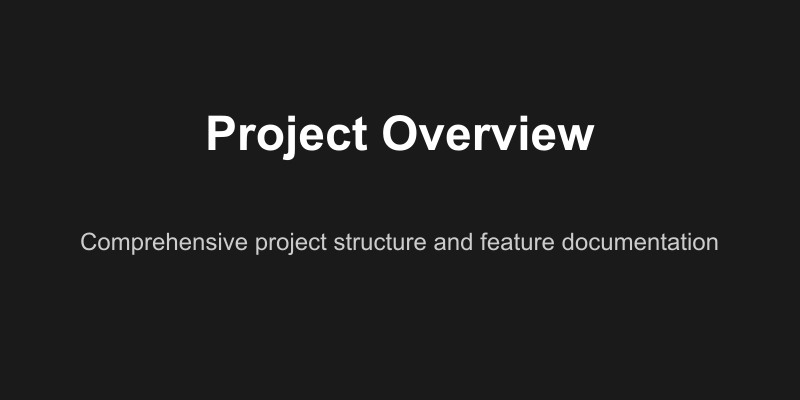
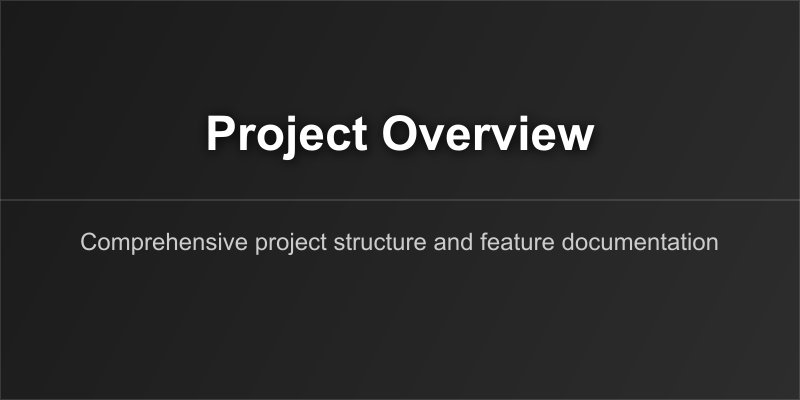
docs: update Netlify badge, fix images, and improve documentation images

diff --git a/docs/generate-docs-images.js b/docs/generate-docs-images.js
@@ -12,20 +12,43 @@ async function generateImage(title, description, outputPath) {
   const canvas = createCanvas(WIDTH, HEIGHT);
   const ctx = canvas.getContext('2d');
 
-  // Background
-  ctx.fillStyle = '#1a1a1a';
+  // Gradient background
+  const gradient = ctx.createLinearGradient(0, 0, WIDTH, HEIGHT);
+  gradient.addColorStop(0, '#1a1a1a');
+  gradient.addColorStop(1, '#2d2d2d');
+  ctx.fillStyle = gradient;
   ctx.fillRect(0, 0, WIDTH, HEIGHT);
 
-  // Title
+  // Add some decorative elements
+  ctx.strokeStyle = '#ffffff20';
+  ctx.lineWidth = 2;
+  ctx.beginPath();
+  ctx.moveTo(0, HEIGHT / 2);
+  ctx.lineTo(WIDTH, HEIGHT / 2);
+  ctx.stroke();
+
+  // Title with shadow
+  ctx.shadowColor = '#000000';
+  ctx.shadowBlur = 10;
+  ctx.shadowOffsetX = 2;
+  ctx.shadowOffsetY = 2;
   ctx.font = 'bold 48px Arial';
   ctx.fillStyle = '#ffffff';
   ctx.textAlign = 'center';
   ctx.fillText(title, WIDTH / 2, HEIGHT / 2 - 50);
 
   // Description
+  ctx.shadowBlur = 0;
+  ctx.shadowOffsetX = 0;
+  ctx.shadowOffsetY = 0;
   ctx.font = '24px Arial';
   ctx.fillStyle = '#cccccc';
   ctx.fillText(description, WIDTH / 2, HEIGHT / 2 + 50);
+
+  // Add border
+  ctx.strokeStyle = '#ffffff20';
+  ctx.lineWidth = 2;
+  ctx.strokeRect(0, 0, WIDTH, HEIGHT);
 
   // Save the image
   const buffer = canvas.toBuffer('image/png');

diff --git a/README.md b/README.md
@@ -3,8 +3,7 @@
 <div align="center">
   <img src="https://raw.githubusercontent.com/Dev-Somesh/adhirachna/main/public/adhirachna-uploads/AdhirachnaVector.png" alt="Adhirachna Logo" width="200"/>
   
-  [![Netlify Status](https://api.netlify.com/api/v1/badges/your-badge-id/deploy-status)](https://app.netlify.com/sites/your-site-name/deploys)
-  [![License](https://img.shields.io/badge/license-MIT-blue.svg)](https://github.com/Dev-Somesh/adhirachna/blob/main/LICENSE)
+  [![Netlify Status](https://api.netlify.com/api/v1/badges/ffae4aca-ada0-4b8d-b600-7833e23d7535/deploy-status)](https://app.netlify.com/sites/adhirachna/deploys)
   [![TypeScript](https://img.shields.io/badge/TypeScript-4.9.5-blue.svg)](https://www.typescriptlang.org/)
   [![React](https://img.shields.io/badge/React-18.2.0-blue.svg)](https://reactjs.org/)
 </div>
@@ -88,7 +87,7 @@ graph TD
         <strong>TypeScript</strong>
       </td>
       <td align="center">
-        <img src="https://raw.githubusercontent.com/devicons/devicon/master/icons/tailwindcss/tailwindcss-plain.svg" width="40" height="40"/>
+        <img src="https://raw.githubusercontent.com/devicons/devicon/master/icons/tailwindcss/tailwindcss-original.svg" width="40" height="40"/>
         <br/>
         <strong>Tailwind</strong>
       </td>
@@ -153,10 +152,6 @@ pie title Bundle Sizes
 - **Email**: itdeveloper06@gmail.com
 - **GitHub**: [Dev-Somesh](https://github.com/Dev-Somesh)
 - **Project Link**: [https://github.com/Dev-Somesh/adhirachna](https://github.com/Dev-Somesh/adhirachna)
-
-## 📄 License
-
-This project is licensed under the MIT License - see the [LICENSE](LICENSE) file for details.
 
 ## 🙏 Acknowledgments
 
